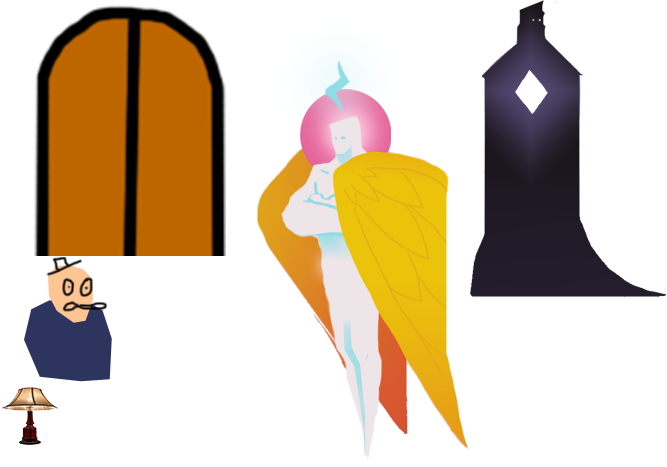
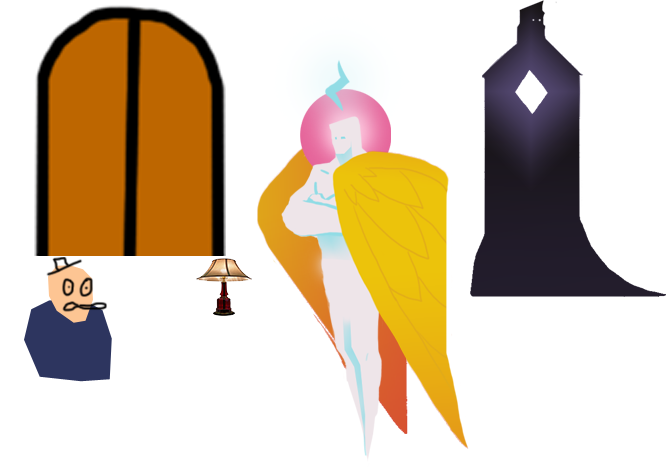
added a hover effect to clickables

Changed region(s): [[0.2999, 0.5396, 0.3898, 0.6895], [0.0, 0.8094, 0.09, 0.9593]]

diff --git a/index.bundle.js b/index.bundle.js
@@ -42841,6 +42841,32 @@ ClickTarget.prototype.getBoundingBox = function()
 	return this.bounds;
 }
 
+ClickTarget.prototype.hover = function()
+{
+	if (!this.hoverMesh)
+	{
+		this.hoverMesh = ThreeUtils.makeAtlasMesh(ThreeUtils.loadAtlas("general"), "grad_circle");
+		GameEngine.scene.add(this.hoverMesh);
+	}
+	this.getBoundingBox();
+	this.hoverMesh.position.set(
+		this.mesh.position.x + GameEngine.screenWidth/2,
+		this.mesh.position.y + GameEngine.screenHeight/2, this.mesh.position.z - 1);
+	this.bounds.size(this.hoverMesh.scale);
+	this.hoverMesh.scale.x /= 32;
+	this.hoverMesh.scale.y /= 32;
+	this.hoverMesh.scale.z = 1;
+	this.hoverMesh.visible = true;
+}
+
+ClickTarget.prototype.unhover = function()
+{
+	if (this.hoverMesh)
+	{
+		this.hoverMesh.visible = false;
+	}
+}
+
 ClickTarget.prototype.enable = function()
 {
 	if (!this.permanentlyDisabled)
@@ -43558,9 +43584,16 @@ SceneManager.update = function()
 			{
 				clickTarget.trigger();
 			}
-			this.lastHoveredTarget = clickTarget;
 		}
 	}
+
+	if (clickTarget != this.lastHoveredTarget)
+	{
+		if (clickTarget) clickTarget.hover();
+		if (this.lastHoveredTarget) this.lastHoveredTarget.unhover();
+	}
+
+	this.lastHoveredTarget = clickTarget;
 
 	// update animation
 	if (this.animation)
@@ -43652,10 +43685,12 @@ module.exports =
 	sprites:
 	{
 	"door":[0,0,256,256],
+	"grad_circle":[0,386,64,64],
+	"grad_r":[129,257,64,64],
 	"heaven_angel":[257,0,212,467],
 	"heaven_player":[470,0,196,297],
 	"johnson15_sprite":[0,257,128,128],
-	"lamp":[0,386,60,60],
+	"lamp":[194,257,60,60],
 	},
 },
 "johnson15":

diff --git a/src/game/clicktarget.js b/src/game/clicktarget.js
@@ -72,6 +72,32 @@ ClickTarget.prototype.getBoundingBox = function()
 	return this.bounds;
 }
 
+ClickTarget.prototype.hover = function()
+{
+	if (!this.hoverMesh)
+	{
+		this.hoverMesh = ThreeUtils.makeAtlasMesh(ThreeUtils.loadAtlas("general"), "grad_circle");
+		GameEngine.scene.add(this.hoverMesh);
+	}
+	this.getBoundingBox();
+	this.hoverMesh.position.set(
+		this.mesh.position.x + GameEngine.screenWidth/2,
+		this.mesh.position.y + GameEngine.screenHeight/2, this.mesh.position.z - 1);
+	this.bounds.size(this.hoverMesh.scale);
+	this.hoverMesh.scale.x /= 32;
+	this.hoverMesh.scale.y /= 32;
+	this.hoverMesh.scale.z = 1;
+	this.hoverMesh.visible = true;
+}
+
+ClickTarget.prototype.unhover = function()
+{
+	if (this.hoverMesh)
+	{
+		this.hoverMesh.visible = false;
+	}
+}
+
 ClickTarget.prototype.enable = function()
 {
 	if (!this.permanentlyDisabled)

diff --git a/src/game/scenemanager.js b/src/game/scenemanager.js
@@ -48,9 +48,16 @@ SceneManager.update = function()
 			{
 				clickTarget.trigger();
 			}
-			this.lastHoveredTarget = clickTarget;
 		}
 	}
+
+	if (clickTarget != this.lastHoveredTarget)
+	{
+		if (clickTarget) clickTarget.hover();
+		if (this.lastHoveredTarget) this.lastHoveredTarget.unhover();
+	}
+
+	this.lastHoveredTarget = clickTarget;
 
 	// update animation
 	if (this.animation)

diff --git a/src/sdk/atlases/index.js b/src/sdk/atlases/index.js
@@ -15,10 +15,12 @@ module.exports =
 	sprites:
 	{
 	"door":[0,0,256,256],
+	"grad_circle":[0,386,64,64],
+	"grad_r":[129,257,64,64],
 	"heaven_angel":[257,0,212,467],
 	"heaven_player":[470,0,196,297],
 	"johnson15_sprite":[0,257,128,128],
-	"lamp":[0,386,60,60],
+	"lamp":[194,257,60,60],
 	},
 },
 "johnson15":
